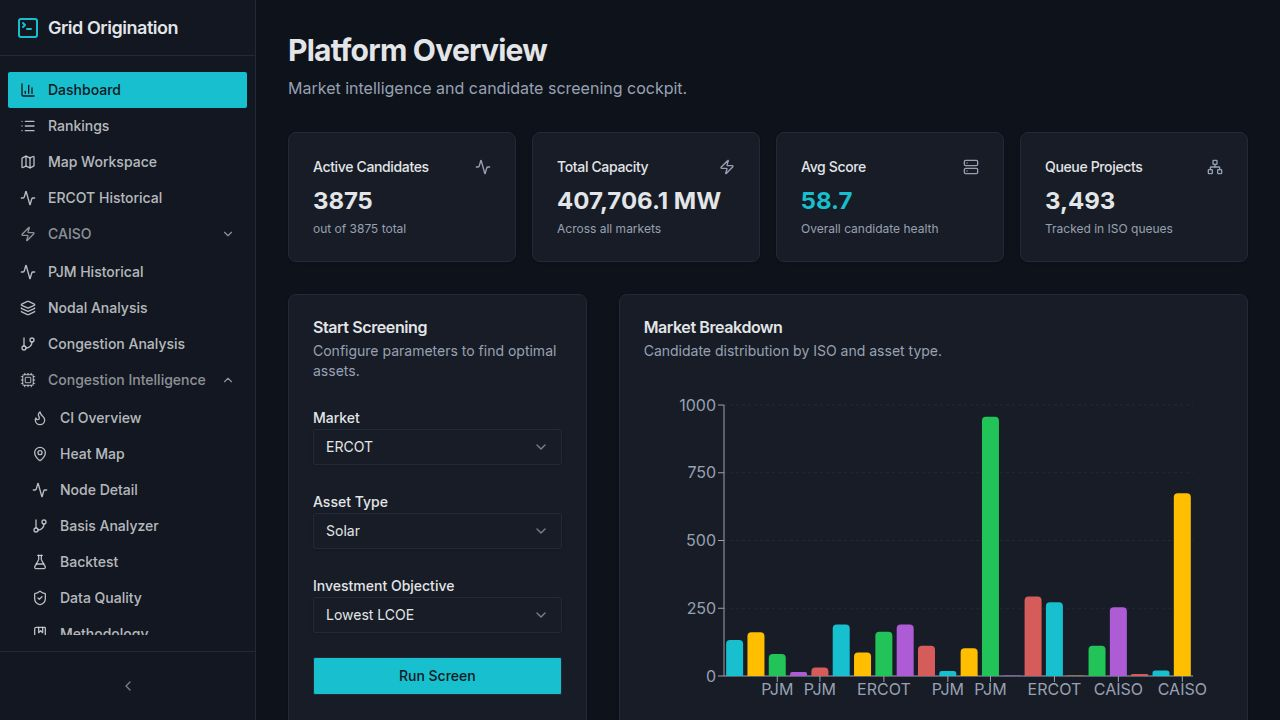
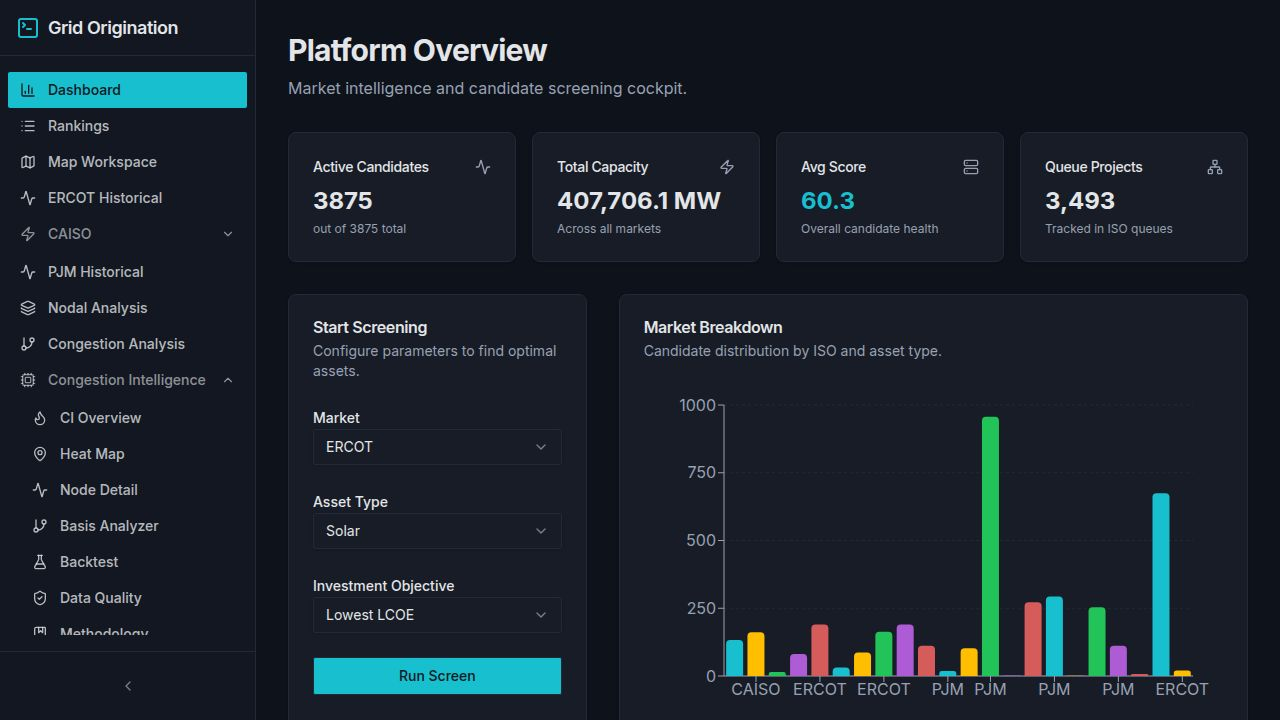
Update NPV calculator and remove references to Walmart
Renames "PPA Calculator" to "NPV Calculator", removes all instances of "Walmart" from the application's text and code comments, and updates relevant API routes and frontend components to reflect the change.

Replit-Commit-Author: Agent
Replit-Commit-Session-Id: fcd5d602-a432-47c1-ae7f-936714f45ce6
Replit-Commit-Checkpoint-Type: full_checkpoint
Replit-Commit-Event-Id: 90071113-aa7d-4a9e-b881-1753aca22dd7
Replit-Commit-Screenshot-Url: https://storage.googleapis.com/screenshot-production-us-central1/9b39c53b-13e2-4fd7-bd10-e7949662418f/fcd5d602-a432-47c1-ae7f-936714f45ce6/x1uuf9j
Replit-Helium-Checkpoint-Created: true

Changed region(s): [[0.7812, 0.6722, 0.9375, 0.9778], [0.5625, 0.8556, 0.6875, 0.9778], [0.625, 0.2444, 0.6875, 0.3056]]

diff --git a/artifacts/grid-platform/src/pages/guide.tsx b/artifacts/grid-platform/src/pages/guide.tsx
@@ -29,9 +29,9 @@ const USE_CASES = [
     color: C.teal,
     badge: "Use Case 1",
     title: "PPA / Offtake Origination",
-    subtitle: "Source existing projects for Walmart energy hedging",
+    subtitle: "Source existing projects for energy offtake",
     description:
-      "Identify renewable energy projects (wind, solar, storage) that can enter into Power Purchase Agreements or offtake contracts with Walmart to hedge a portion of their electricity portfolio across ERCOT, CAISO, and PJM.",
+      "Identify renewable energy projects (wind, solar, storage) that can enter into Power Purchase Agreements or offtake contracts to hedge a portion of an electricity portfolio across ERCOT, CAISO, and PJM.",
     steps: [
       "Pull all operating projects from EIA 860 onto the Map Workspace",
       "Screen projects by capacity, technology, ISO, COD, and sponsor quality",
@@ -48,7 +48,7 @@ const USE_CASES = [
     color: C.amber,
     badge: "Use Case 2",
     title: "New Project Siting via Queue Analysis",
-    subtitle: "Identify where Walmart can commission a greenfield project",
+    subtitle: "Identify where a greenfield project can be commissioned",
     description:
       "Analyze the interconnection queue to find regions where a new project could be sited with acceptable queue position, limited congestion/curtailment competition, and favorable basis. Some areas already have heavy pipeline; others represent opportunity.",
     steps: [
@@ -374,7 +374,7 @@ export default function PlatformGuide() {
         </div>
         <h1 className="text-3xl font-bold tracking-tight">Grid Origination Intelligence Platform</h1>
         <p className="text-muted-foreground mt-1 max-w-3xl">
-          A power market siting and PPA origination tool purpose-built for Walmart's energy procurement team.
+          A power market siting and PPA origination intelligence tool for energy procurement teams.
           Identify, screen, and rank renewable energy projects as potential offtake candidates — and assess where
           new greenfield projects can be sited with favorable queue position and manageable risk.
         </p>

diff --git a/artifacts/api-server/src/routes/ppa.ts b/artifacts/api-server/src/routes/ppa.ts
@@ -43,8 +43,8 @@ function npv(cashflows: number[], wacc: number): number {
 /**
  * GET /api/ppa-npv
  *
- * Compute VPPA (Financial PPA) NPV from Walmart's perspective.
- * Walmart enters a Contract for Differences: they receive (market_price - strike) × volume.
+ * Compute VPPA (Financial PPA) NPV from the offtaker's perspective.
+ * Contract for Differences: offtaker receives (market_price - strike) × volume.
  *   Positive = hedge gain (market > strike)
  *   Negative = hedge cost (market < strike)
  *
@@ -52,7 +52,7 @@ function npv(cashflows: number[], wacc: number): number {
  *   candidateId  - integer (required)
  *   strike       - $/MWh offtake/settlement price (required)
  *   term         - contract length in years (default 15)
- *   wacc         - Walmart WACC for discounting (default 0.08)
+ *   wacc         - offtaker WACC for discounting (default 0.08)
  *   volume       - override contracted MWh/yr (default = capacity × CF × 8760)
  *   escalation   - annual market price escalation rate (default 0.015 = 1.5%/yr)
  */

diff --git a/artifacts/grid-platform/src/pages/ppa-calculator.tsx b/artifacts/grid-platform/src/pages/ppa-calculator.tsx
@@ -105,9 +105,9 @@ export default function PpaCalculator() {
   return (
     <div className="p-6 space-y-6 min-h-screen bg-slate-900 text-slate-100">
       <div>
-        <h1 className="text-2xl font-bold text-white">PPA NPV Calculator</h1>
+        <h1 className="text-2xl font-bold text-white">NPV Calculator</h1>
         <p className="text-sm text-slate-400 mt-1">
-          Model a VPPA (Financial PPA) from Walmart's perspective — net cashflows = (market price − strike) × contracted volume
+          Model a VPPA (Financial PPA) — net cashflows = (market price − strike) × contracted volume, discounted at WACC
         </p>
       </div>
 
@@ -223,7 +223,7 @@ export default function PpaCalculator() {
                 </div>
                 {result.baseCapturePriceMwh < result.inputs.strike && (
                   <div className="mt-3 text-xs text-amber-400 bg-amber-900/20 border border-amber-800/40 rounded px-3 py-2">
-                    ⚠ Strike (${result.inputs.strike}) exceeds base capture price (${result.baseCapturePriceMwh}/MWh) — Walmart carries hedge cost at P50
+                    ⚠ Strike (${result.inputs.strike}) exceeds base capture price (${result.baseCapturePriceMwh}/MWh) — offtaker carries hedge cost at P50
                   </div>
                 )}
               </div>

diff --git a/artifacts/grid-platform/src/pages/caiso-hourly.tsx b/artifacts/grid-platform/src/pages/caiso-hourly.tsx
@@ -239,7 +239,7 @@ export default function CaisoHourly() {
             <AlertCircle className="h-4 w-4 text-amber-400 shrink-0" />
             <p className="text-xs text-amber-300">
               <span className="font-semibold">Duck curve effect:</span> SP15 solar generation peaks between 10a–2p when DA prices are lowest ({summary.troughHour} @ ${summary.troughPrice}/MWh).
-              Capture ratio {summary.captureRatio}% — Walmart's SP15 PPAs (Pivot Energy 72 MWac) face this shape mismatch.
+              Capture ratio {summary.captureRatio}% — SP15 solar PPAs face this shape mismatch vs flat-price contracts.
               Battery storage co-location can shift capture to 6p–8p peak.
             </p>
           </CardContent>
@@ -394,7 +394,7 @@ export default function CaisoHourly() {
             <span className="text-amber-400 font-medium">Data source:</span> CAISO OASIS public API — PRC_LMP query.
             DA prices from DAM (Day-Ahead Market). RT prices from HASP (Hour-Ahead Scheduling Process, 15-min intervals averaged to hourly).
             Nodes: TH_SP15_GEN-APND (SP15 Southern CA), TH_NP15_GEN-APND (NP15 Northern CA), TH_ZP26_GEN-APND (ZP26 Bay Area).
-            Note: SP15 solar capture ratio typically 75–85% of DA due to midday duck curve curtailment — directly impacts Walmart's Pivot Energy (72 MWac, CA/CO) and Solar Landscape VPPA settlements.
+            Note: SP15 solar capture ratio typically 75–85% of DA due to midday duck curve curtailment — directly impacts the economics of solar VPPA settlements in Southern California.
           </p>
         </CardContent>
       </Card>

diff --git a/artifacts/grid-platform/src/pages/ci-methodology.tsx b/artifacts/grid-platform/src/pages/ci-methodology.tsx
@@ -24,7 +24,7 @@ const SECTIONS = [
     title: "Problem Statement",
     content: `ERCOT settlement point and resource node prices exhibit persistent congestion patterns driven by transmission constraints, 
     wind and solar generation concentration in West Texas, and correlated load events. For renewable developers, IPPs, and corporate 
-    offtakers (like Walmart), understanding where basis risk concentrates — and when — is material to project siting, PPA pricing, 
+    offtakers, understanding where basis risk concentrates — and when — is material to project siting, PPA pricing, 
     and portfolio risk management. This feature quantifies that risk using real ERCOT market data from 2024 onward.`,
   },
   {
@@ -108,7 +108,7 @@ const SECTIONS = [
     Renewable developers: Identify which nodes carry the highest basis risk before siting a new wind or solar project. 
     A 1,000 MW project at a node with persistent $15/MWh negative basis loses ~$131M/year in realized revenue vs DAM price.
 
-    Corporate offtakers (Walmart): Evaluate which PPA nodes create the most versus least basis exposure. Choose settlement 
+    Corporate offtakers: Evaluate which PPA nodes create the most versus least basis exposure. Choose settlement 
     points with historically stable DA/RT spreads to reduce P&L volatility.
 
     Traders and analysts: Understand where congestion concentrates seasonally, allowing tactical hedging positions or 

diff --git a/artifacts/grid-platform/src/pages/rankings.tsx b/artifacts/grid-platform/src/pages/rankings.tsx
@@ -44,7 +44,7 @@ const OBJECTIVES = [
   {
     id: "corporate_hedge",
     label: "Corporate Load Hedge",
-    desc: "Reliability for Walmart load matching — curtailment 30% · congestion 22% · basis 18% · interconnect risk 12% · capture price 8% · capacity 7% · mkt revenue 3%",
+    desc: "Reliability for corporate load hedging — curtailment 30% · congestion 22% · basis 18% · interconnect risk 12% · capture price 8% · capacity 7% · mkt revenue 3%",
     weights: { curtailmentScore: 0.30, interconnectionScore: 0.22, locationScore: 0.18, developmentRiskScore: 0.12, priceScore: 0.08, demandProximityScore: 0.07, financialScore: 0.03 },
   },
   {
@@ -104,7 +104,7 @@ const DIMS = [
     label: "Capacity",
     shortLabel: "MW",
     color: "#3b82f6",
-    tooltip: "Log-scaled plant size score. Larger plants are more attractive for Walmart's ~500 MW procurement need. 2,000 MW → 93; 500 MW → 76; 100 MW → 58; 10 MW → 36.",
+    tooltip: "Log-scaled plant size score. Larger plants are more attractive for large procurement programs. 2,000 MW → 93; 500 MW → 76; 100 MW → 58; 10 MW → 36.",
   },
   {
     key: "financialScore" as const,

diff --git a/artifacts/api-server/src/routes/chat.ts b/artifacts/api-server/src/routes/chat.ts
@@ -103,7 +103,7 @@ router.post("/chat", async (req, res) => {
         `  ${r.node.padEnd(16)}${r.node_type ? r.node_type.padEnd(12) : ""}DA=$${String(r.avg_da).padStart(6)}  ${r.avg_rt !== undefined ? `RT=$${String(r.avg_rt).padStart(6)}  ` : ""}vol=${String(r.avg_vol).padStart(6)}  neg%=${String(r.neg_pct).padStart(5)}%  (${r.months}mo)`
       ).join("\n");
 
-    const systemPrompt = `You are the Grid Origination Copilot — an expert AI assistant for power market siting, PPA origination, and energy procurement across ERCOT, CAISO, and PJM. You are advising Walmart's energy procurement team.
+    const systemPrompt = `You are the Grid Origination Copilot — an expert AI assistant for power market siting, PPA origination, and energy procurement across ERCOT, CAISO, and PJM.
 
 You have a live PostgreSQL database with real market data. Use the run_sql tool when you need specific data not already shown below. Always be quantitative and cite data sources.
 

diff --git a/artifacts/grid-platform/src/components/layout.tsx b/artifacts/grid-platform/src/components/layout.tsx
@@ -79,7 +79,7 @@ const sidebarEntries: NavEntry[] = [
   },
   { title: "Interconnection Queue", href: "/queue",      icon: Database },
   { title: "Temperature Data",      href: "/weather",    icon: Thermometer },
-  { title: "PPA Calculator",        href: "/ppa",        icon: Calculator },
+  { title: "NPV Calculator",         href: "/ppa",        icon: Calculator },
   { title: "REC Analysis",          href: "/recs",       icon: Leaf },
   { title: "Q&A Copilot",           href: "/qa",         icon: MessageSquare },
   { title: "Export Center",         href: "/export",     icon: Download },